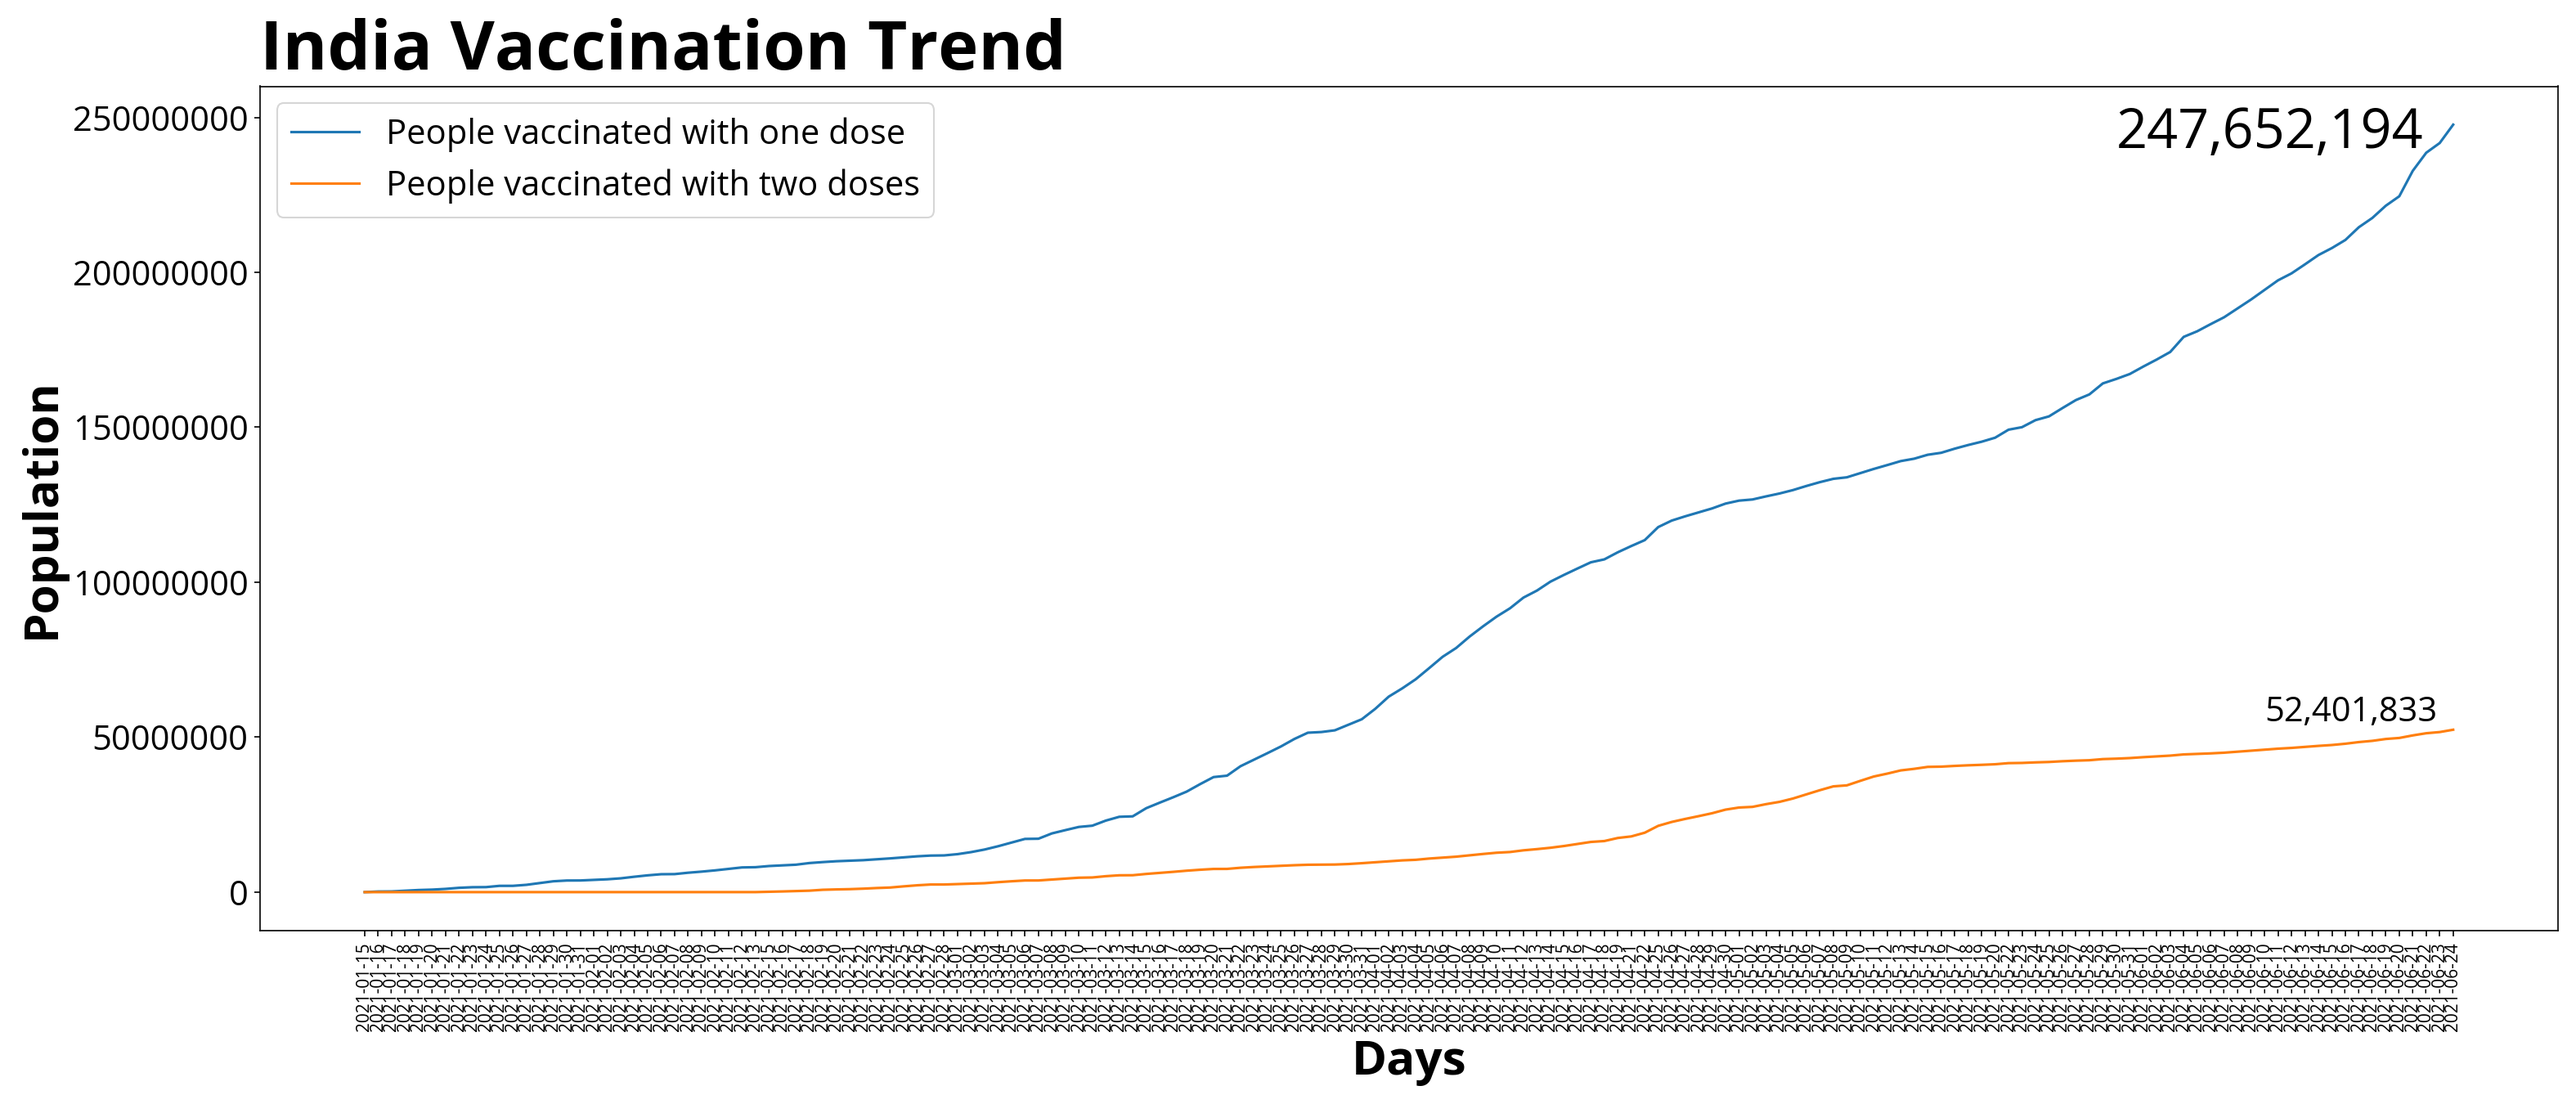
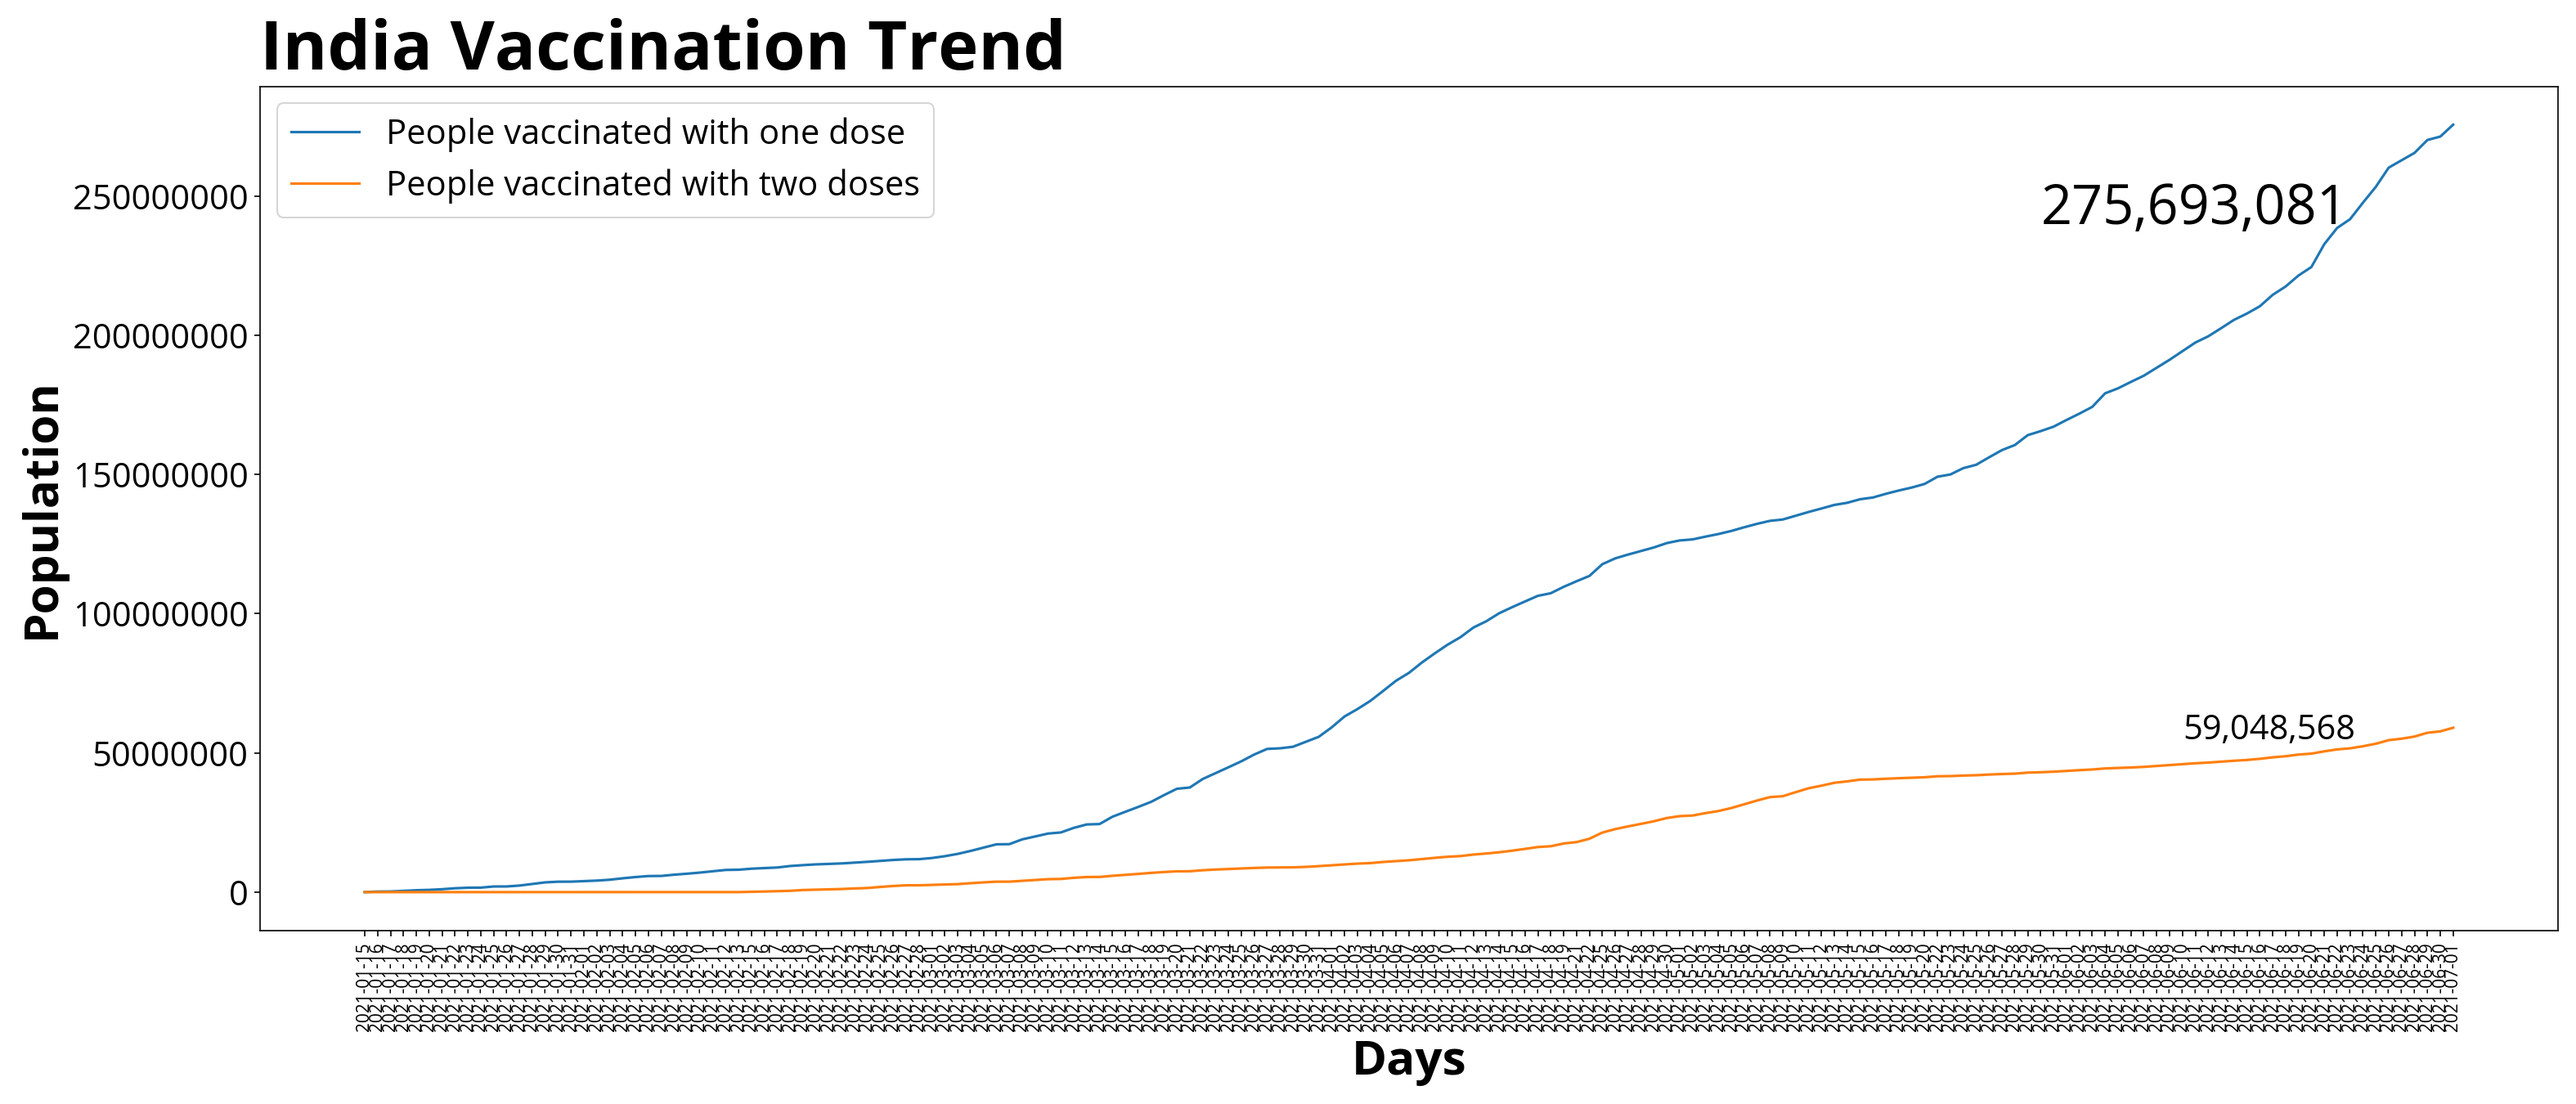
Update code and outputs

diff --git a/vaccination_data.py b/vaccination_data.py
@@ -45,7 +45,7 @@ def main():
     df_proj_s = pd.Series(projection, index=dts, name='projected_d1')
     df_proj_df = df_proj_s.to_frame()
     df2 = df0.append(df_proj_df)
-    print(df2.tail())
+    # print(df2.tail())
     
     # Display information on screen
     print(f'India COVID Vaccination Summary until {last_date_disp}')
@@ -55,6 +55,7 @@ def main():
     print(f'May get only {max_possible:,} and will trail by {trail:,}.')
     print(f'May reach target population by {new_deadline_disp} at this rate.')
 
+    """"
     story_count = 179172948
     story_cvr = 2566157
     story_rvr = 3931919
@@ -77,6 +78,7 @@ def main():
     print("I'd love to hear from you about your thoughts, feelings, views on this topic through your claps, likes, and comments at the following places -")
     print("twitter.com/parijatprasun")
     print("facebook.com/parijatprasun")
+    """
 
     # Prepare additional data for plotting
     df0 = df.set_index('date')
